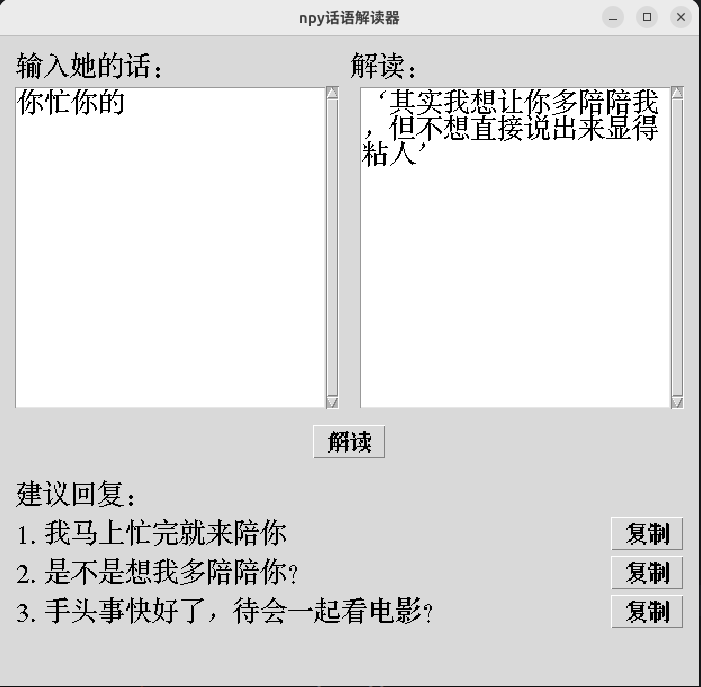
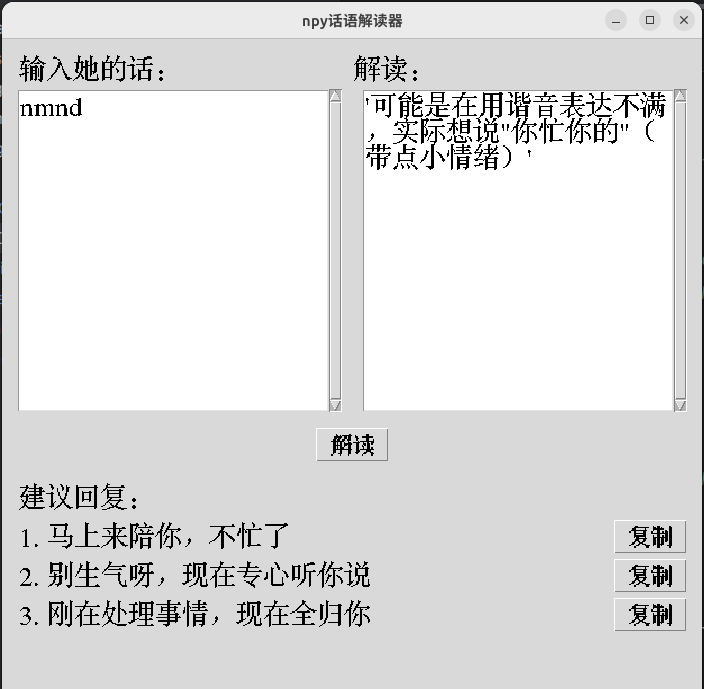
修复了一些显示问题

diff --git a/translator_app.py b/translator_app.py
@@ -77,6 +77,9 @@ class TranslatorApp:
         self.status_label = tk.Label(main_frame, text="", font=self.button_font, fg="green")
         self.status_label.grid(row=5, column=0, columnspan=2, pady=(5, 0))
 
+        # 为思考过程文本配置灰色标签
+        self.result_text.tag_configure("thinking", foreground="gray")
+
     def display_error(self, message):
         """辅助函数，用于在结果框中显示错误信息"""
         self.result_text.config(state=tk.NORMAL)
@@ -111,7 +114,8 @@ class TranslatorApp:
         # 更新UI，准备接收流式响应
         self.result_text.config(state=tk.NORMAL)
         self.result_text.delete("1.0", tk.END)
-        self.result_text.insert(tk.END, "正在思考中...\n")
+        # 使用灰色标签显示思考状态
+        self.result_text.insert(tk.END, "正在思考中...", "thinking")
         self.result_text.config(state=tk.DISABLED)
         self._clear_replies_frame()  # 清空旧的回复建议
         self.show_status("")  # 清空状态栏
@@ -120,13 +124,12 @@ class TranslatorApp:
         # **** COSTAR 框架系统提示词 (保持不变) ****
         system_prompt = """
 ## Context
-你正在帮助一位用户解读他伴侣（女朋友或媳妇）所说的一句话。用户希望了解这句话表面之下的潜在含义，例如潜台词、反语、未明说的期望或真实的情感。输入的语句会由用户提供。请注意，你可能不了解具体的对话背景和双方关系细节，需要基于对人际交往和亲密关系的普遍理解进行分析。
+你正在帮助一位用户解读他伴侣（女朋友或媳妇）所说的一句话。用户希望了解这句话表面之下的潜在含义，例如谐音、双关、潜台词、反语、未明说的期望或真实的情感。输入的语句会由用户提供。请注意，你可能不了解具体的对话背景和双方关系细节，需要基于对人际交往和亲密关系的普遍理解进行分析。
 
 ## Objective
 你的目标是：
 1. 分析用户提供的语句。
-2. 解读其最可能的真实含义，识别任何潜在的潜台词、反语或隐藏的情感。并用一句话表达ta想表达的意思。
-3. 提供一个清晰、有洞察力的解释。
+2. 解读其最可能的真实含义，识别任何谐音、双关、潜台词、反语或隐藏的情感。并用一句话表达ta想表达的意思，类似于将一句不易懂的句子翻译成一句易懂的句子。
 4. **重要:** 在解释之后，另起一行，使用 "可能的回复:" 开头，然后按编号列出3条建议的回复，每条不超过20字。格式如下：
 可能的回复:
 1. 回复一示例
@@ -149,7 +152,7 @@ class TranslatorApp:
 然后另起新行，使用 \'可能的回复:\' 作为明确的标记。
 接着按编号（1., 2., 3.）列出三条回复建议，每条占一行，且不超过20字。
 例如：
-‘想你了’
+'想你了'
 可能的回复:
 1. 我知道了，抱抱你。
 2. 是我没考虑周全，下次注意。
@@ -167,7 +170,6 @@ class TranslatorApp:
                 system_prompt=system_prompt,
                 user_message=user_prompt,
                 temperature=0.7,
-                max_tokens=300
             )
 
             # 首次接收前清空"正在思考"
@@ -176,22 +178,28 @@ class TranslatorApp:
             self.result_text.delete("1.0", tk.END)  # 清空"正在思考"
 
             # 迭代处理流式响应
-            for chunk in response_stream:
-                # 检查是否是错误信息 (根据 LLMClient 中 yield 的错误格式)
-                if isinstance(chunk, str) and chunk.startswith("\n[错误："):
-                    self.display_error(chunk.strip())  # 使用 display_error 显示错误
+            for chunk_type, chunk_data in response_stream:
+                # 检查是否是错误信息
+                if chunk_type == "error":
+                    self.display_error(chunk_data.strip())  # 使用 display_error 显示错误
                     return  # 出错则停止处理
 
+                # 首次接收非错误块时清空"正在思考"
                 if first_chunk:
-                    # self.result_text.delete("1.0", tk.END) # 已经在循环外清空
+                    self.result_text.config(state=tk.NORMAL)
+                    self.result_text.delete("1.0", tk.END) # 清空"正在思考"
                     first_chunk = False
 
-                # 实时显示在主结果框 (但处理完成后会重新整理)
-                self.result_text.insert(tk.END, chunk)
+                # 实时显示在主结果框 (reasoning 和 content 都显示为灰色)
+                self.result_text.config(state=tk.NORMAL)
+                self.result_text.insert(tk.END, chunk_data, "thinking")
+                self.result_text.config(state=tk.DISABLED)
                 self.result_text.see(tk.END)
                 self.root.update_idletasks()
 
-                full_response_text += chunk  # 累积完整文本
+                # 只有 content 块的内容累加到最终响应文本中
+                if chunk_type == "content":
+                    full_response_text += chunk_data
 
             # --- 流处理完毕后，解析并重新布局 ---
             self.result_text.config(state=tk.NORMAL)
@@ -229,7 +237,8 @@ class TranslatorApp:
                     copy_button = tk.Button(self.replies_frame, text="复制", command=copy_cmd, font=self.button_font)
                     copy_button.grid(row=i, column=1, sticky="e", pady=2, padx=(5, 0))
             else:
-                no_reply_label = tk.Label(self.replies_frame, text="未能提取建议回复。", font=self.button_font, fg="gray")
+                no_reply_label = tk.Label(self.replies_frame, text="未能提取建议回复。", font=self.button_font,
+                                          fg="gray")
                 no_reply_label.grid(row=0, column=0, columnspan=2)
 
 

diff --git a/LLMClient.py b/LLMClient.py
@@ -1,6 +1,6 @@
 import logging
 import openai
-from typing import List, Dict, Optional, Iterator
+from typing import List, Dict, Optional, Iterator, Tuple
 
 logger = logging.getLogger(__name__)
 
@@ -32,7 +32,7 @@ class LLMClient:
             image_paths: Optional[List[str]] = None,
             temperature: float = 0.7,
             max_tokens: int = 8192
-    ) -> Iterator[str]:
+    ) -> Iterator[Tuple[str, str]]:
         """
         Create chat dialogue with streaming response.
         
@@ -44,7 +44,8 @@ class LLMClient:
             max_tokens: Maximum number of tokens
             
         Returns:
-            Iterator[str]: An iterator yielding chunks of the model generated response content.
+            Iterator[Tuple[str, str]]: An iterator yielding tuples of (type, content/reasoning/error).
+                                      'type' can be 'reasoning', 'content', or 'error'.
         """
         # 构造消息内容
         user_content = [{"type": "text", "text": user_message}]
@@ -57,11 +58,11 @@ class LLMClient:
             messages = [
                 {"role": "user", "content": user_content}
             ]
-        
+
         # 注意：当前实现未包含处理 image_paths 的流式逻辑
         if image_paths:
-             logger.warning("Image paths provided but streaming currently only supports text.")
-             # 如果需要支持图像，需要调整消息构造方式，类似非流式但需确认 API 支持
+            logger.warning("Image paths provided but streaming currently only supports text.")
+            # 如果需要支持图像，需要调整消息构造方式，类似非流式但需确认 API 支持
 
         try:
             stream = None
@@ -70,28 +71,34 @@ class LLMClient:
                 "messages": messages,
                 "temperature": temperature,
                 "max_tokens": max_tokens,
-                "stream": True # 启用流式响应
+                "stream": True  # 启用流式响应
             }
 
             if "openrouter.ai" in str(self.base_url).lower():
                 request_params["extra_headers"] = {
-                        "X-Title": "NPY Translator", # 更新应用名称
-                        "HTTP-Referer": "https://github.com/your_repo", # 如果有仓库，更新链接
-                    }
+                    "X-Title": "NPY Translator",  # 更新应用名称
+                    "HTTP-Referer": "https://github.com/wangyuanchuan2022/npy_translator",  # 如果有仓库，更新链接
+                }
                 stream = self.client.chat.completions.create(**request_params)
             else:
                 stream = self.client.chat.completions.create(**request_params)
-            
+
             # 迭代处理流式响应
             for chunk in stream:
-                if chunk.choices and chunk.choices[0].delta and chunk.choices[0].delta.content:
-                    yield chunk.choices[0].delta.content # yield 内容块
+                if chunk.choices and chunk.choices[0].delta:
+                    delta = chunk.choices[0].delta
+                    # 检查是否存在 reasoning 字段 (假设性检查)
+                    if hasattr(delta, 'reasoning') and delta.reasoning:
+                        yield "reasoning", delta.reasoning
+                    # 检查 content 字段
+                    if delta.content:
+                        yield "content", delta.content
 
         except Exception as e:
             logger.error(f"API stream request failed: {str(e)}")
             # 在流式传输中，错误可能在迭代期间发生
             # 可以选择 yield 一个错误标记或者直接 raise
-            yield f"\n[错误：API 请求失败: {str(e)}]" # 或者 raise e，让调用方处理
+            yield ("error", f"\n[错误：API 请求失败: {str(e)}]")
             # raise e # 取消注释以向上抛出异常
 
     def encode_image(self, image_path: str) -> str:
